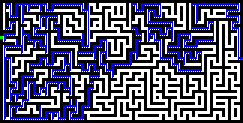
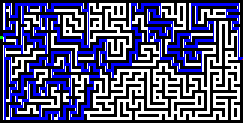
Modified README, added screenshots

diff --git a/src/lib/mod.rs b/src/lib/mod.rs
@@ -256,6 +256,7 @@ fn create_table(node_vector: &[Node]) -> HashMap<(u32, u32), Vec<(u32, u32)>>{
 
 
                     let mut next_node: Option<usize> = None;
+                    
                     for node_index in 0..nodes.len(){
                         if nodes[node_index].coords == element.links[1]{
                             next_node = Some(node_index);
@@ -355,6 +356,9 @@ fn pixels_to_color(path: Vec<(u32, u32)>) -> Vec<(u32, u32)>{
     let mut pixels_to_color = Vec::new();
 
     for pixel in 0..(path.len()-1){
+
+        pixels_to_color.push(path[pixel]);
+
         if path[pixel].0 == path[pixel+1].0{
 
             if path[pixel+1].1 >= path[pixel].1{

diff --git a/README.md b/README.md
@@ -5,6 +5,9 @@ the green block and finishes on the red block, passing on the white pixels.
 Since it uses the Depth-First-Search algorithm, the output probably won't be the
 shortest possible path.
 
+![example 1](example-1.png)
+![example 2](example-2.png)
+
 ## Input rules
 The input should be an RGB8 image, containing at least one green pixel and one red pixel,
 being the beginning and the end of the maze; all the black pixels are treated as "walls"
